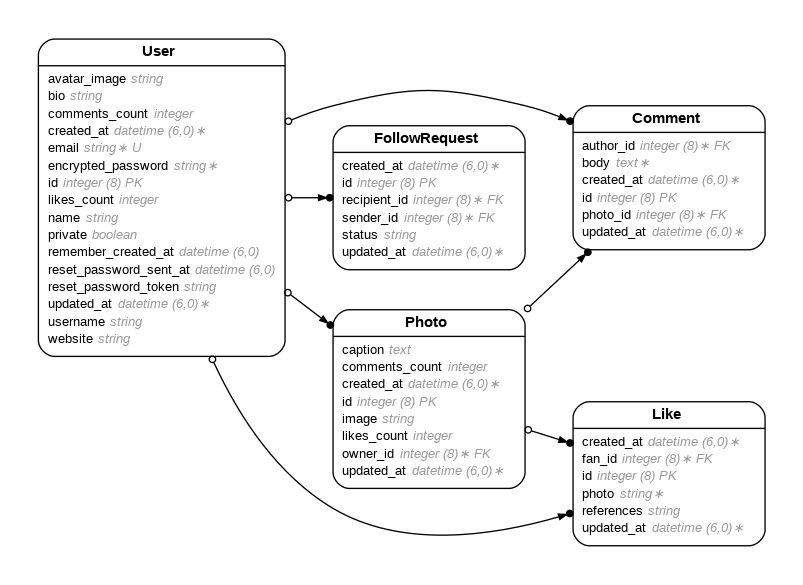
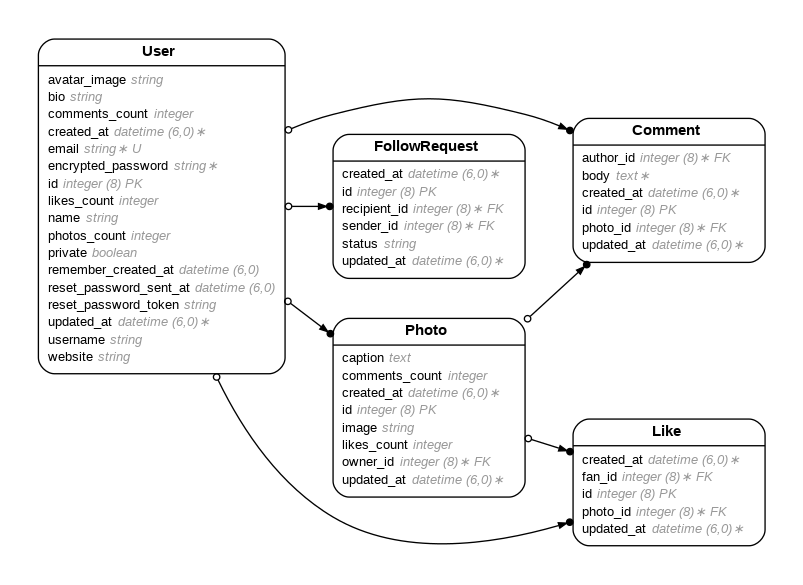
counter_cache and added photos count to users

diff --git a/spec/models/user_spec.rb b/spec/models/user_spec.rb
@@ -3,20 +3,19 @@
 # Table name: users
 #
 #  id                     :bigint           not null, primary key
-#  avatar_image           :string           default("avatar_placeholder.png")
+#  avatar_image           :string
 #  bio                    :string
 #  comments_count         :integer          default(0)
-#  email                  :citext           default(""), not null
+#  email                  :string           default(""), not null
 #  encrypted_password     :string           default(""), not null
-#  integer                :integer          default(0)
 #  likes_count            :integer          default(0)
 #  name                   :string
 #  photos_count           :integer          default(0)
-#  private                :boolean          default(TRUE)
+#  private                :boolean
 #  remember_created_at    :datetime
 #  reset_password_sent_at :datetime
 #  reset_password_token   :string
-#  username               :citext           not null
+#  username               :string
 #  website                :string
 #  created_at             :datetime         not null
 #  updated_at             :datetime         not null

diff --git a/db/schema.rb b/db/schema.rb
@@ -10,7 +10,7 @@
 #
 # It's strongly recommended that you check this file into your version control system.
 
-ActiveRecord::Schema[8.0].define(version: 2025_05_25_193526) do
+ActiveRecord::Schema[8.0].define(version: 2025_05_25_201843) do
   # These are extensions that must be enabled in order to support this database
   enable_extension "citext"
   enable_extension "pg_catalog.plpgsql"
@@ -212,6 +212,7 @@ ActiveRecord::Schema[8.0].define(version: 2025_05_25_193526) do
     t.integer "comments_count", default: 0
     t.datetime "created_at", null: false
     t.datetime "updated_at", null: false
+    t.integer "photos_count", default: 0
     t.index ["email"], name: "index_users_on_email", unique: true
     t.index ["reset_password_token"], name: "index_users_on_reset_password_token", unique: true
     t.index ["username"], name: "index_users_on_username", unique: true

diff --git a/spec/models/comment_spec.rb b/spec/models/comment_spec.rb
@@ -3,7 +3,7 @@
 # Table name: comments
 #
 #  id         :bigint           not null, primary key
-#  body       :text
+#  body       :text             not null
 #  created_at :datetime         not null
 #  updated_at :datetime         not null
 #  author_id  :bigint           not null
@@ -11,8 +11,7 @@
 #
 # Indexes
 #
-#  index_comments_on_author_id  (author_id)
-#  index_comments_on_photo_id   (photo_id)
+#  index_comments_on_photo_id  (photo_id)
 #
 # Foreign Keys
 #

diff --git a/app/models/user.rb b/app/models/user.rb
@@ -10,6 +10,7 @@
 #  encrypted_password     :string           default(""), not null
 #  likes_count            :integer          default(0)
 #  name                   :string
+#  photos_count           :integer          default(0)
 #  private                :boolean
 #  remember_created_at    :datetime
 #  reset_password_sent_at :datetime

diff --git a/app/models/like.rb b/app/models/like.rb
@@ -19,6 +19,6 @@
 #  fk_rails_...  (photo_id => photos.id)
 #
 class Like < ApplicationRecord
-  belongs_to :fan, class_name: "User"
-  belongs_to :photo
+  belongs_to :fan, class_name: "User", counter_cache: true
+  belongs_to :photo, counter_cache: true
 end

diff --git a/app/models/comment.rb b/app/models/comment.rb
@@ -19,6 +19,6 @@
 #  fk_rails_...  (photo_id => photos.id)
 #
 class Comment < ApplicationRecord
-  belongs_to :author, class_name: "User"
+  belongs_to :author, class_name: "User", counter_cache: true
   belongs_to :photo
 end

diff --git a/app/models/photo.rb b/app/models/photo.rb
@@ -20,6 +20,6 @@
 #  fk_rails_...  (owner_id => users.id)
 #
 class Photo < ApplicationRecord
-  belongs_to :owner, class_name: "User"
+  belongs_to :owner, class_name: "User", counter_cache: true
   has_many :comments
 end

diff --git a/db/migrate/20250525201843_add_photos_count_to_users.rb b/db/migrate/20250525201843_add_photos_count_to_users.rb
@@ -1,0 +1,5 @@
+class AddPhotosCountToUsers < ActiveRecord::Migration[8.0]
+  def change
+    add_column :users, :photos_count, :integer, default: 0
+  end
+end
